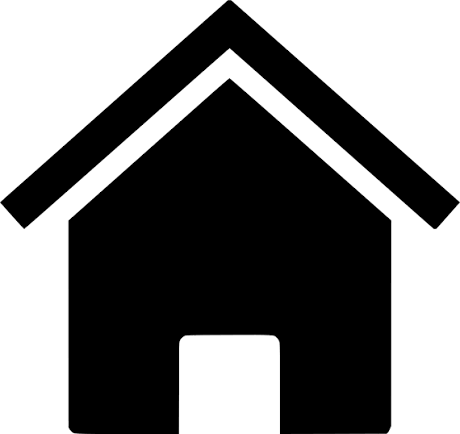
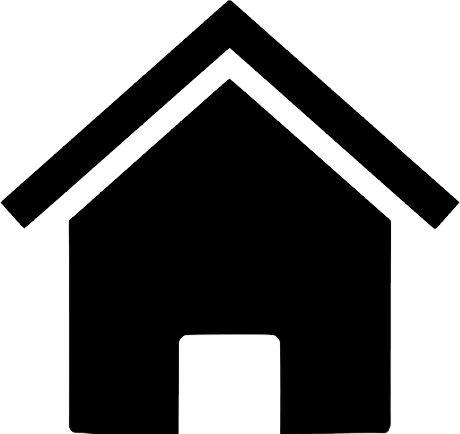
ajout du lien Acceuil vers Me Contacter ajout des div de base de la couleur du contenu utilisation de la balises <br> a changer plus tard

diff --git a/contact/contact.html b/contact/contact.html
@@ -1,0 +1,42 @@
+<!DOCTYPE html>
+<head>
+    <meta charset="utf-8">
+    <meta http-equiv="X-UA-Compatible" content="IE=edge">
+    <title>Me contacter</title>
+    <meta name="description" content="">
+    <meta name="viewport" content="width=device-width, initial-scale=1">
+    <link rel="stylesheet" href="contact.css">
+</head>
+<body>
+    <div id="main">
+        <h1>
+            
+            <br>
+            Me contacter
+        </h1>
+        <div id="contenu">
+            <h1>
+                <h1>
+                
+                <br>
+                Valentin
+                <br>
+                Van Dam Humblot
+            </h1>
+            <h2>
+                vvandamhumblot@gmail.com
+                <br>
+                06 09 98 09 87
+                <br>
+                33bis Route de Picardie
+                <br>
+                Fontaine-Lavaganne
+            </h2>
+            <div id="lien_accueil">
+                <a href="../Accueil/Acceuil.html">
+                    <img class="image_home" src="D:/projet_site/image_site/image_home.png" alt="home">
+                </a>
+            </div>
+        </div>
+    </div>
+</body>

diff --git a/contact/contact.css b/contact/contact.css
@@ -1,0 +1,19 @@
+#main {
+    background-color: #8e8888;
+    width: 100%;
+    height: 1000px;
+    text-align: center;
+}
+
+#contenu {
+    background-color: #cecece;
+    width: 50%;
+    height: auto;
+    text-align: center;
+    transform: translate(50%, 20%);
+    border-radius: 30px;
+}
+
+.image_home {
+    width: 50px;
+}

diff --git a/Accueil/Acceuil.html b/Accueil/Acceuil.html
@@ -22,7 +22,7 @@
             </div>
             <div id="Me_contacter">
                 <h1>
-                    <a href="https://example.com">
+                    <a href="../contact/contact.html">
                         Me contacter
                     </a>
                 </h1>

diff --git a/cv/cv_style.css b/cv/cv_style.css
@@ -52,3 +52,15 @@
     width: 60px;
     transform: translate(2400%, -100%);
 }
+
+.retour_ligne {
+    margin-bottom: -15px;
+}
+
+.sauter_de_ligne {
+    margin-bottom: 40px;
+}
+
+.sauter_de_ligne2 {
+    margin-bottom: 20px;  
+}
